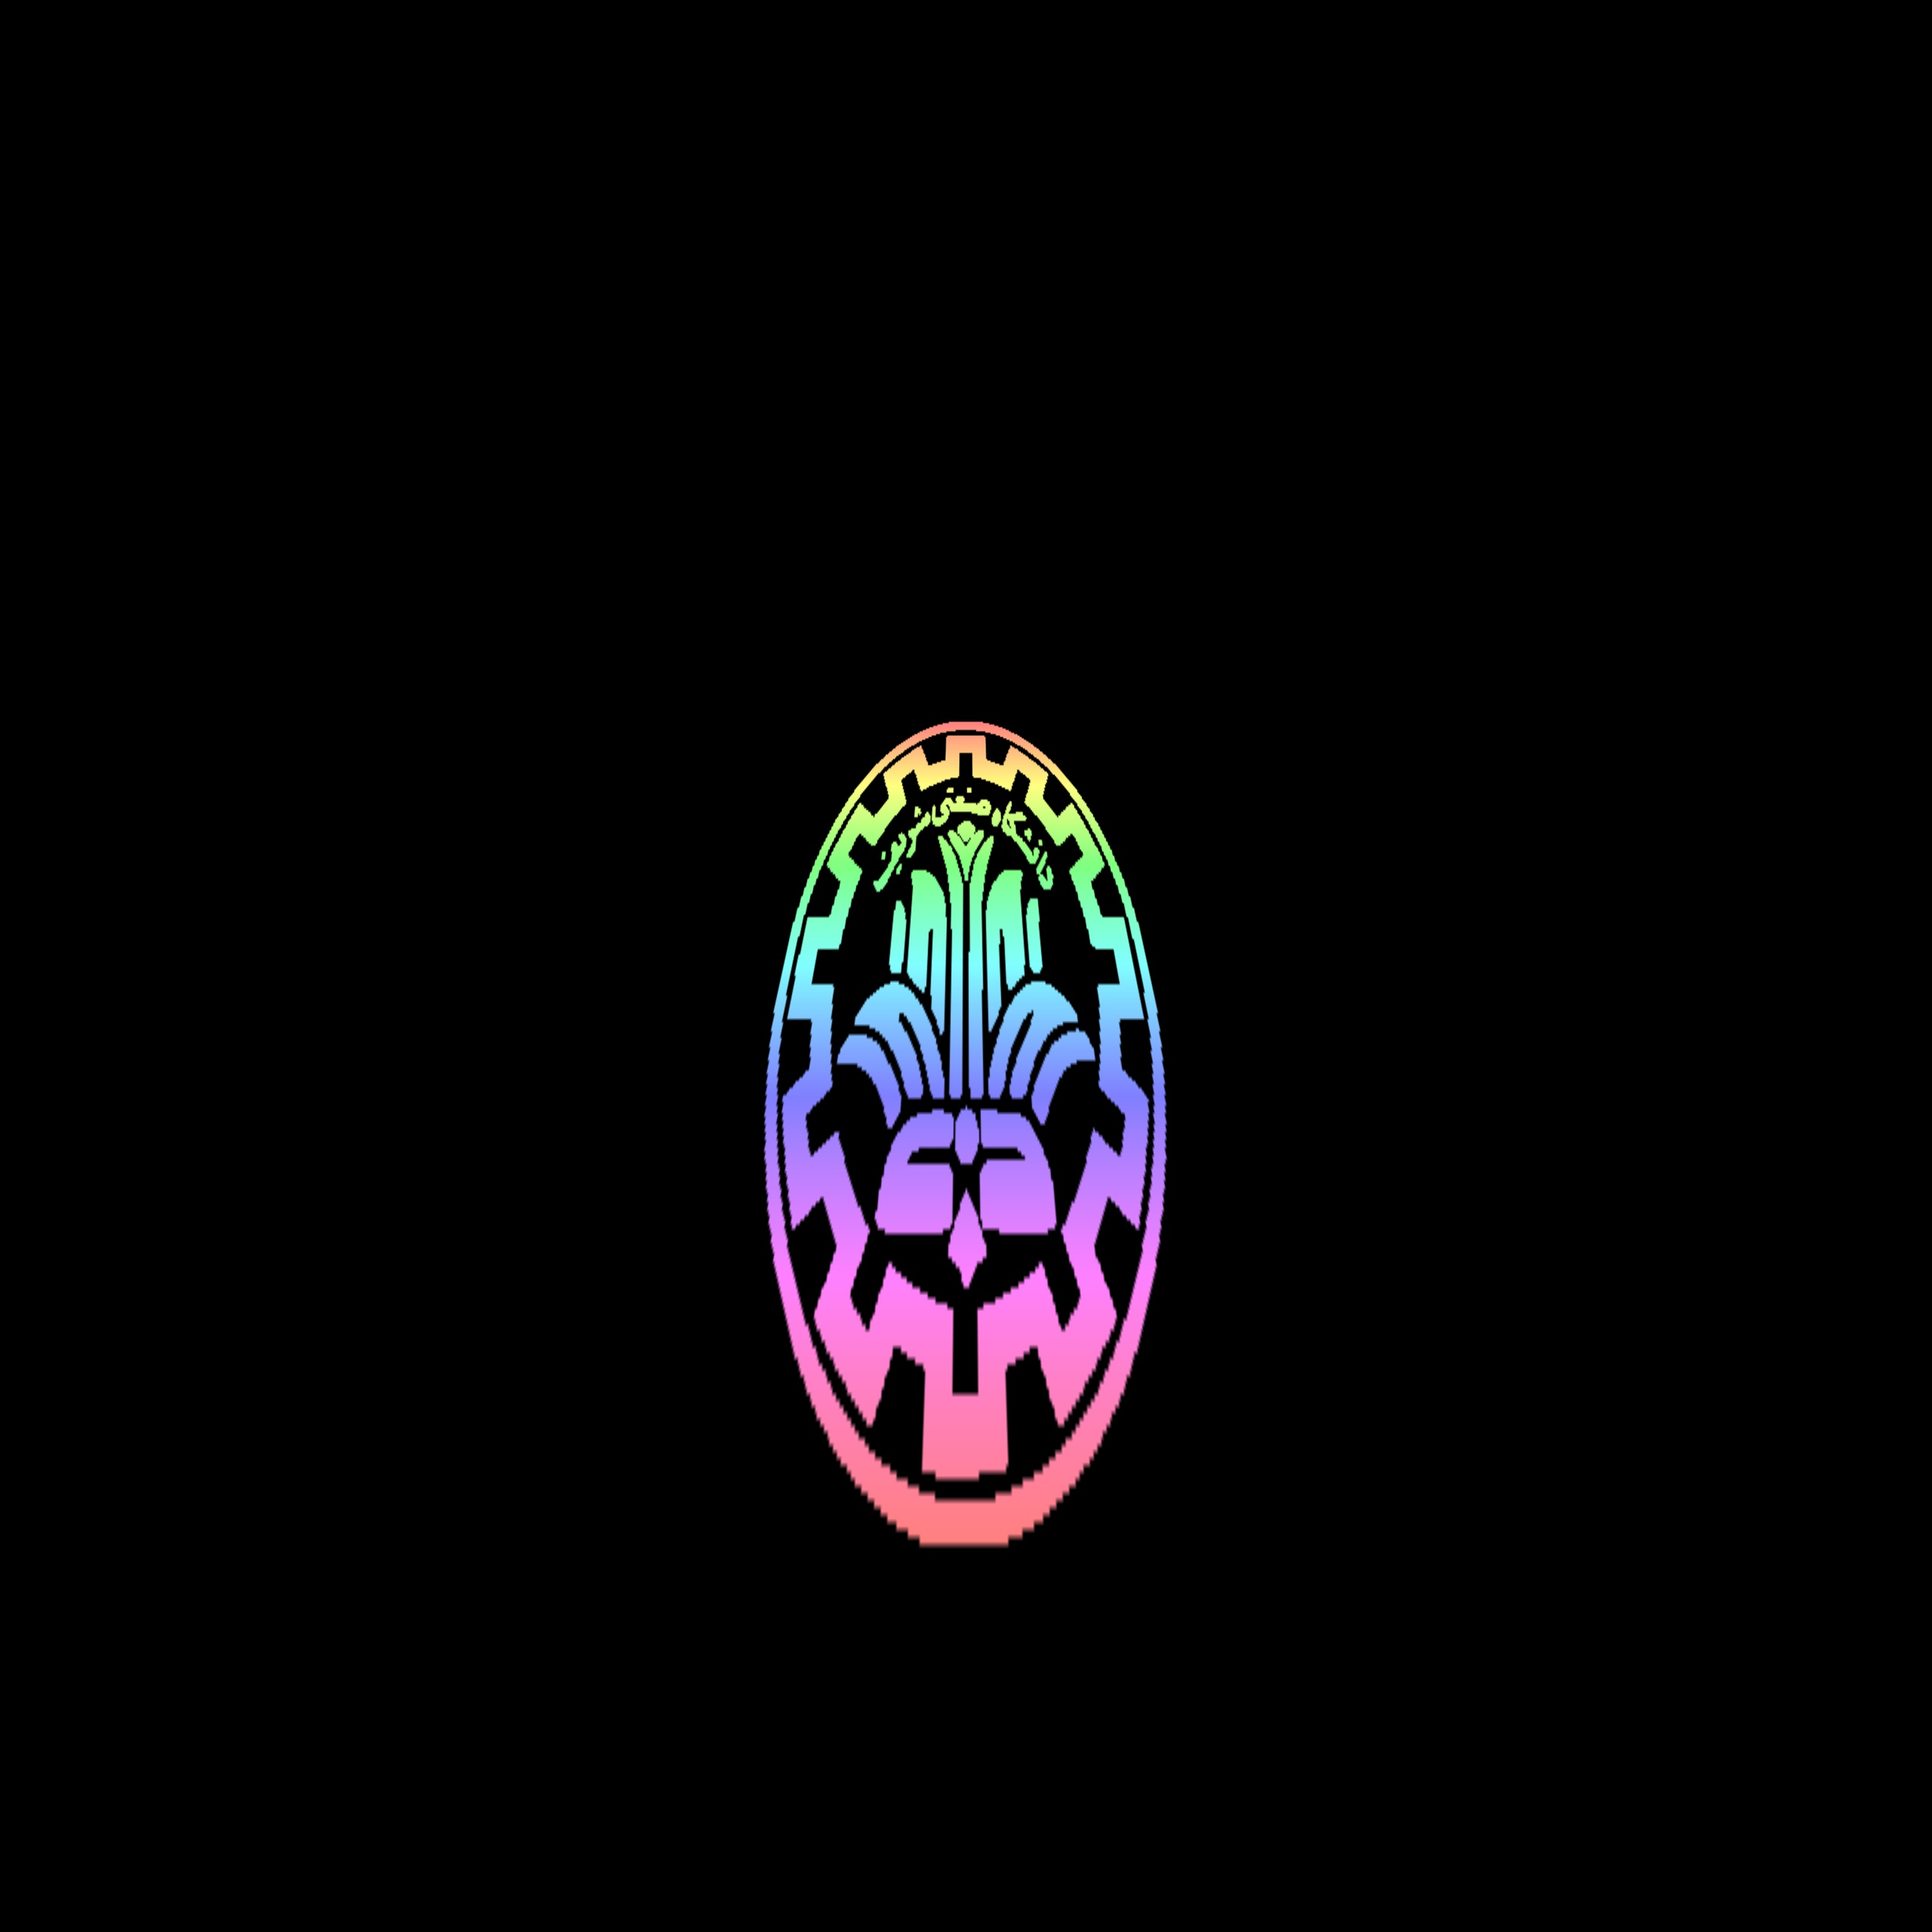
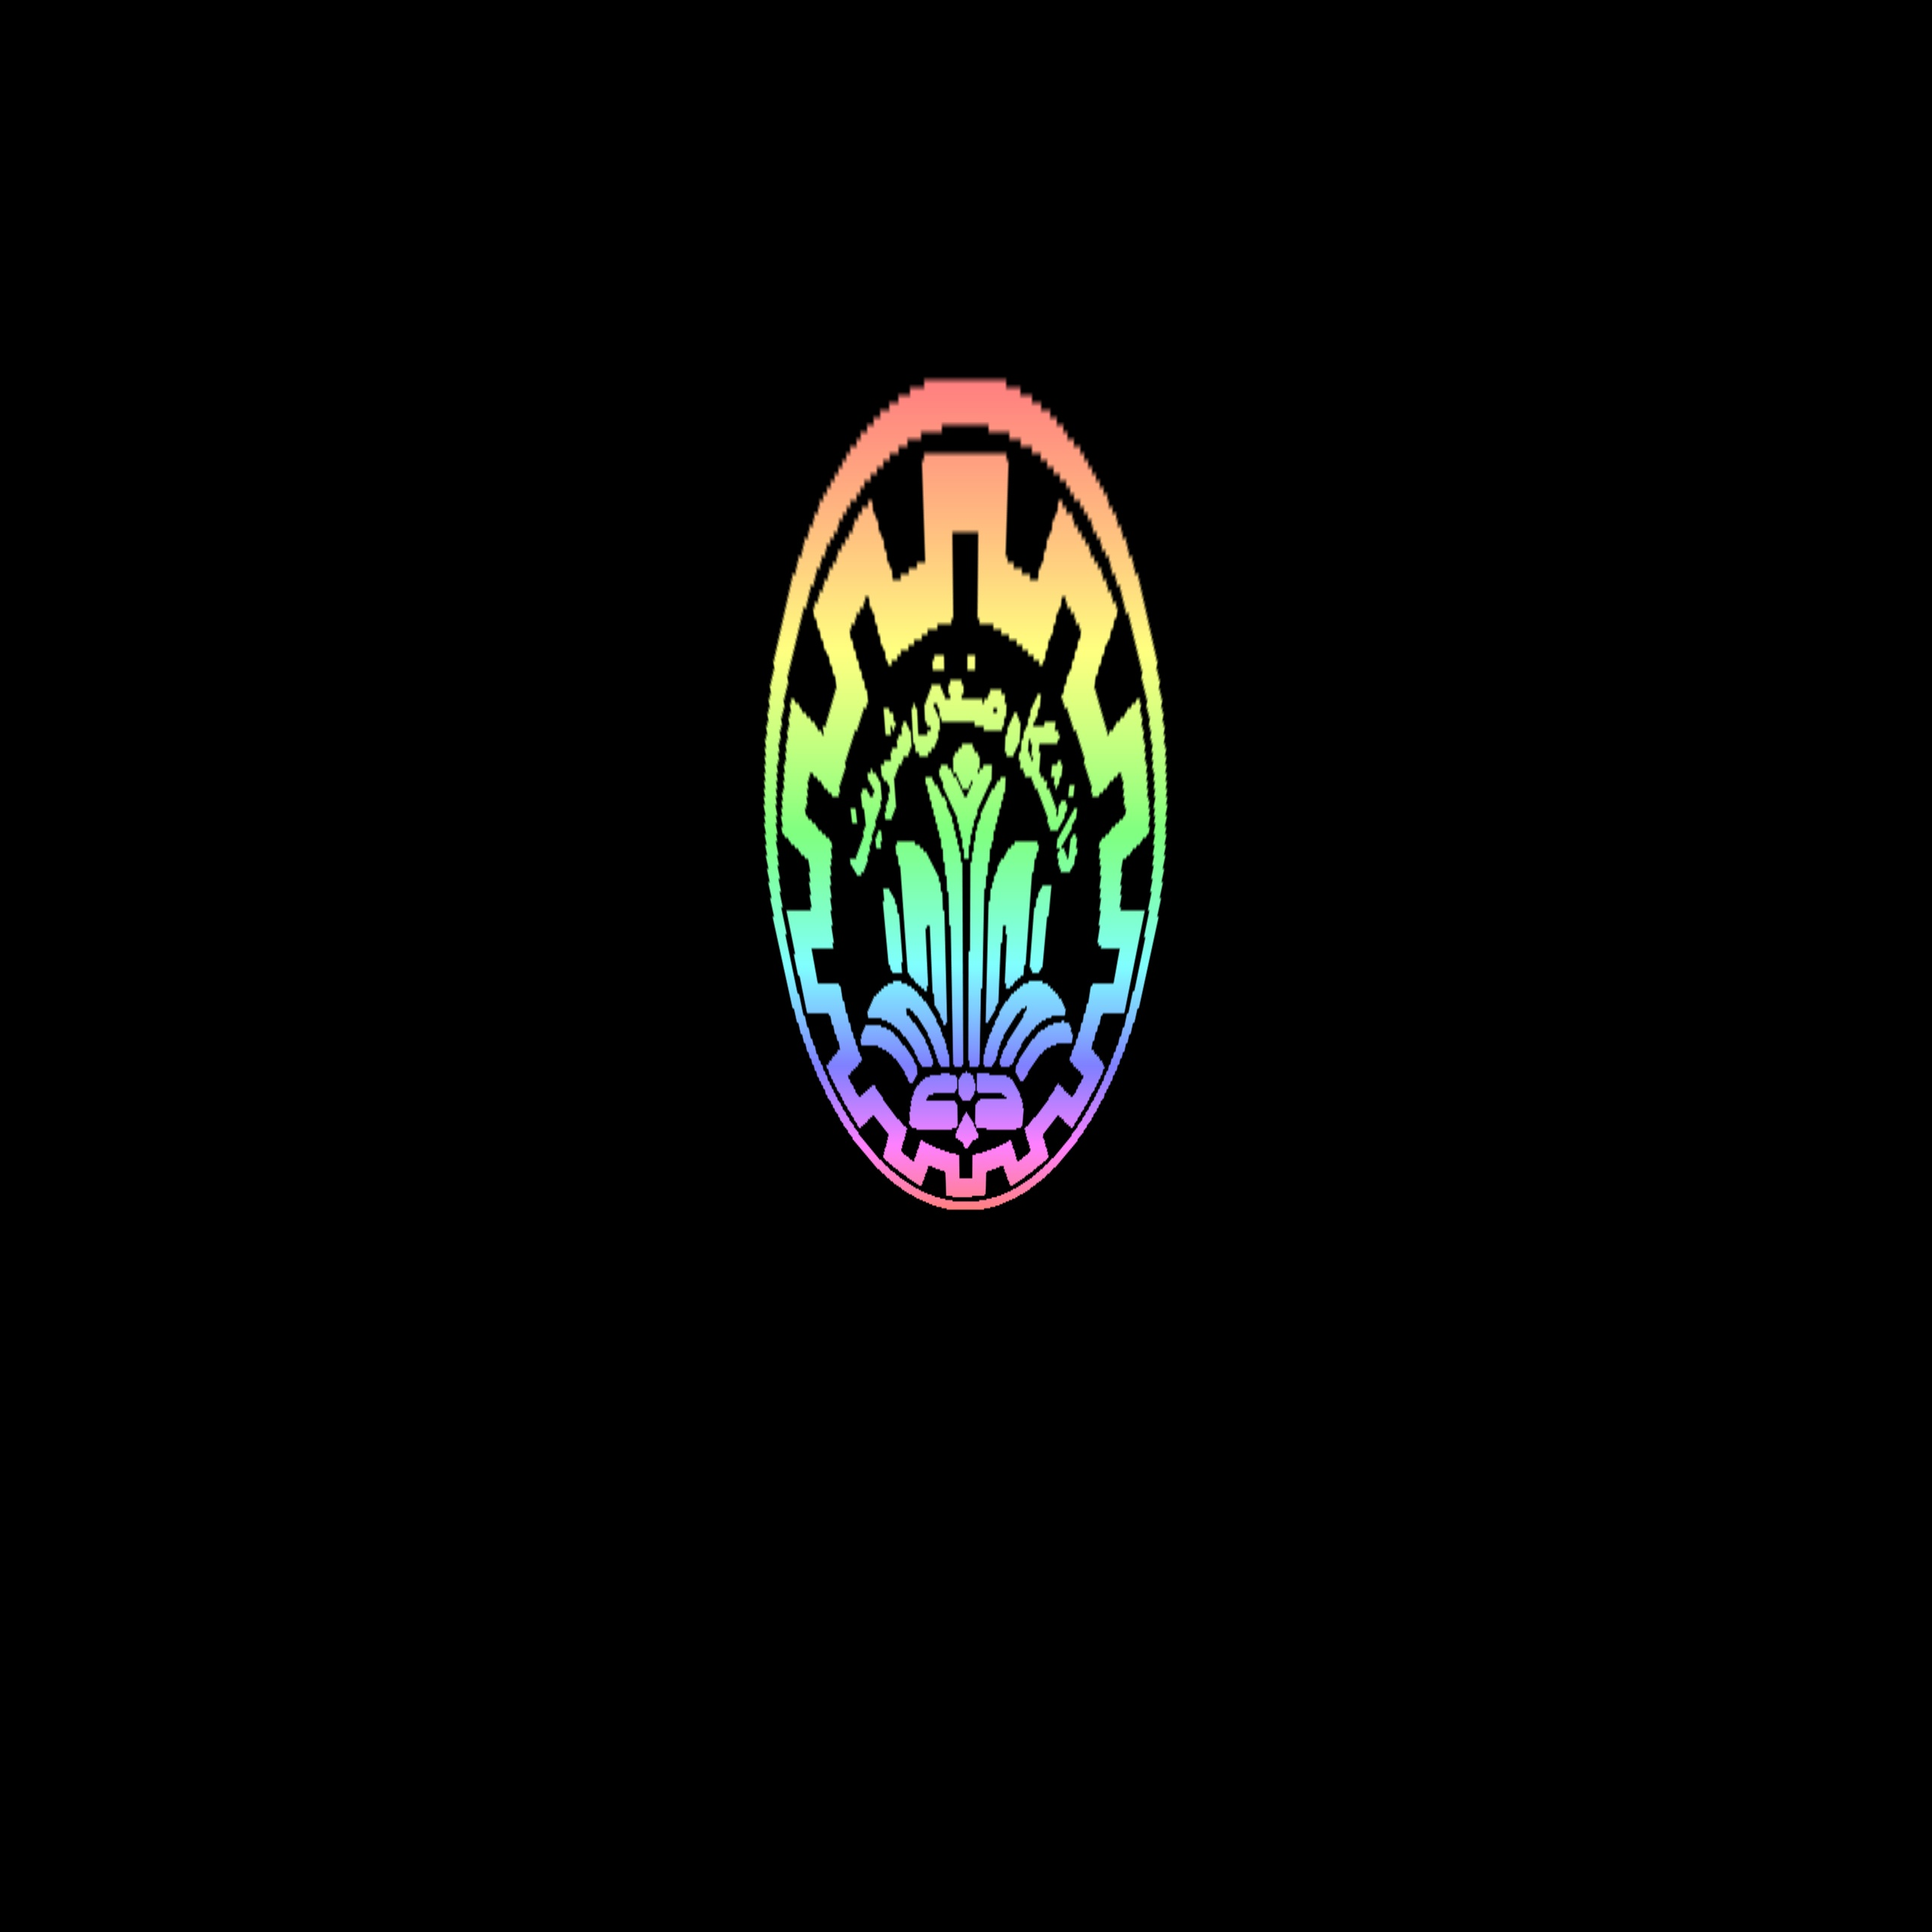
set theta to negative

Changed region(s): [[0.375, 0.1875, 0.625, 0.8125]]

diff --git a/HW1/q2/q2.py b/HW1/q2/q2.py
@@ -29,8 +29,8 @@ if __name__ == '__main__':
     f = 500
     img_shape = (10*w, 10*h)
     n = np.array([[0, 0, -1]])
-    C = np.array([[0, -40, 0]]).T
-    theta = math.atan(40/25)
+    C = np.array([[0, 40, 0]]).T
+    theta = -math.atan(40/25)
 
     k = np.array([[f, 0, img_shape[1]/2], [0, f, img_shape[0]/2], [0, 0, 1]])
     k2 = np.array([[f, 0, py], [0, f, px], [0, 0, 1]])
